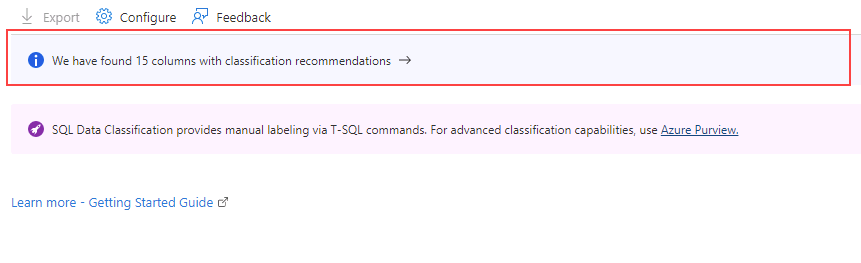
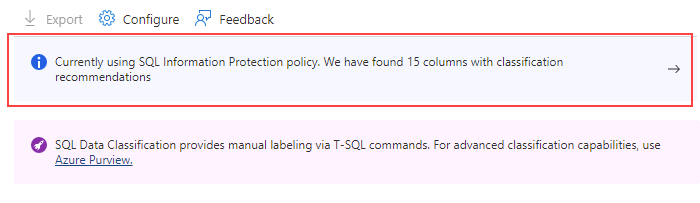
Minor updates

Changed region(s): [[0.0, 0.0296, 1.0, 0.4138], [0.0, 0.6798, 0.96, 0.8276], [0.0, 0.4433, 0.99, 0.532]]

diff --git a/Instructions/Labs/05-enable-sql-defender-and-data-classification.md b/Instructions/Labs/05-enable-sql-defender-and-data-classification.md
@@ -54,7 +54,7 @@ You have been hired as a Senior Database Administrator help ensure the security 
 
     ![Screenshot showing the Data Discovery & Classification](../images/dp-300-module-05-lab-05.png)
 
-1. On the **Data Discovery & Classification** page, you will see an informational message that reads **We have found 15 columns with classification recommendations**. Select that link.
+1. On the **Data Discovery & Classification** page, you will see an informational message that reads: **Currently using SQL Information Protection policy. We have found 15 columns with classification recommendations**. Select this link.
 
     ![Screenshot showing the Classification Recommendations](../images/dp-300-module-05-lab-06.png)
 
